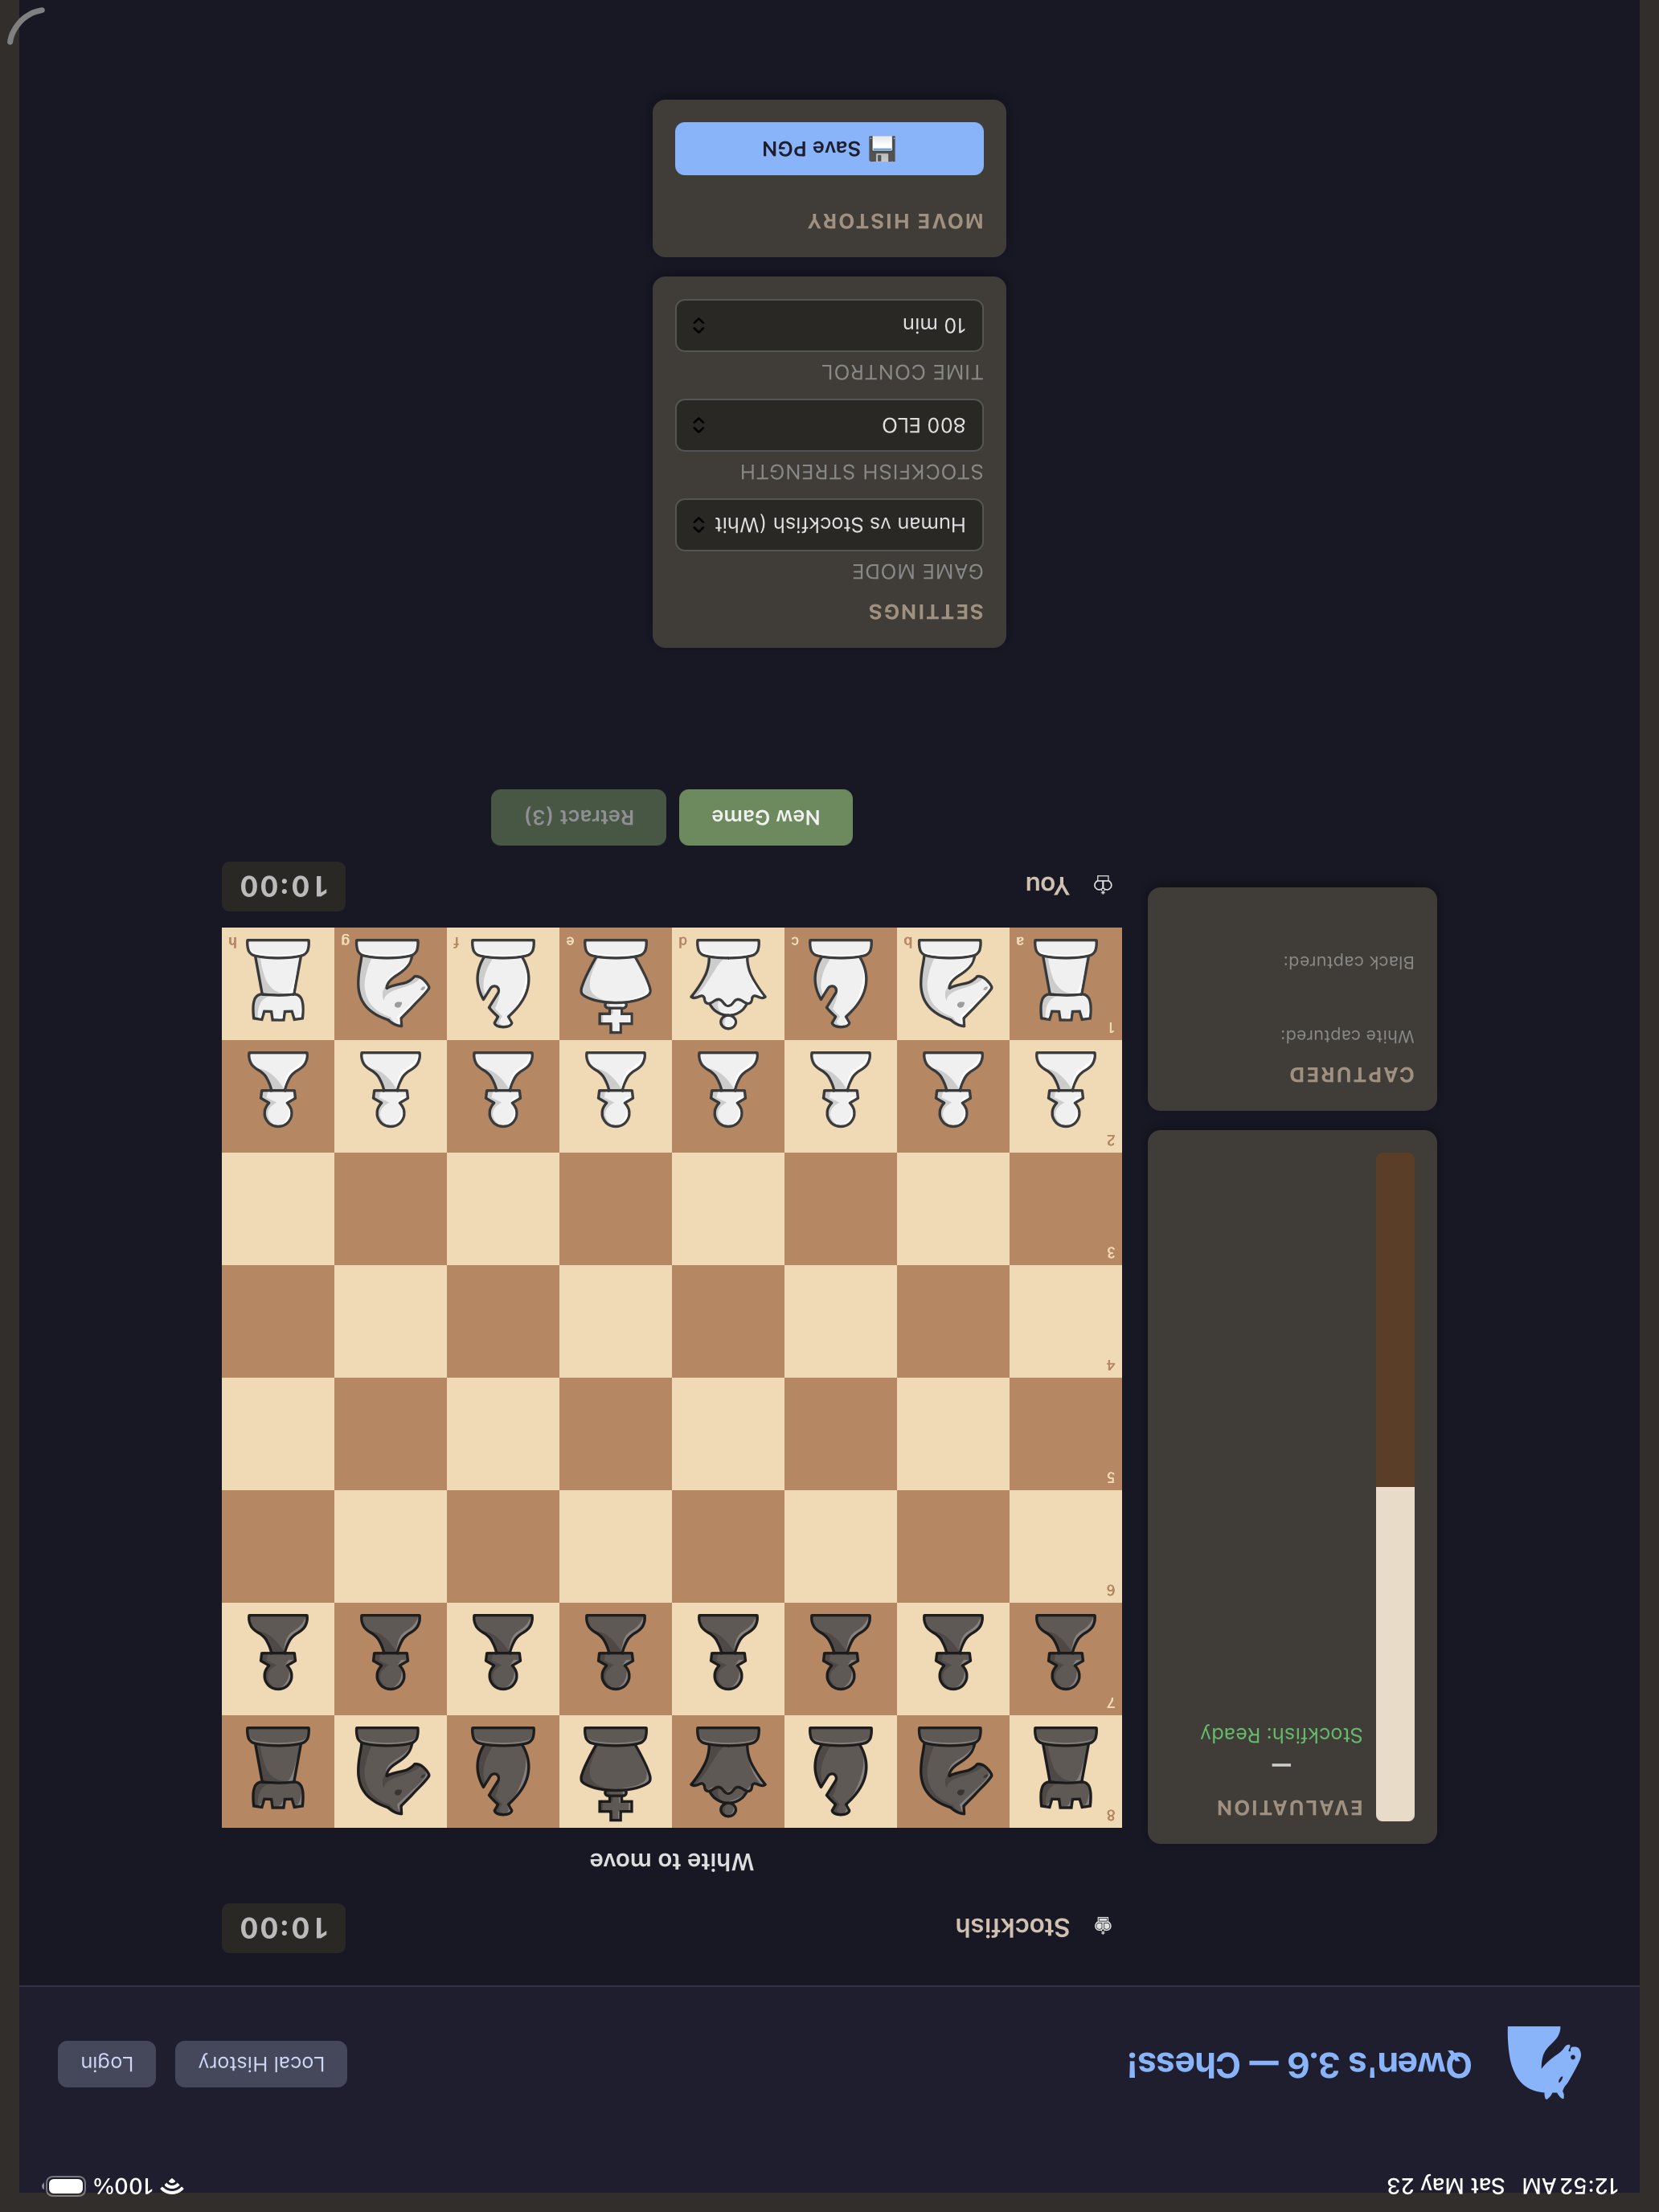
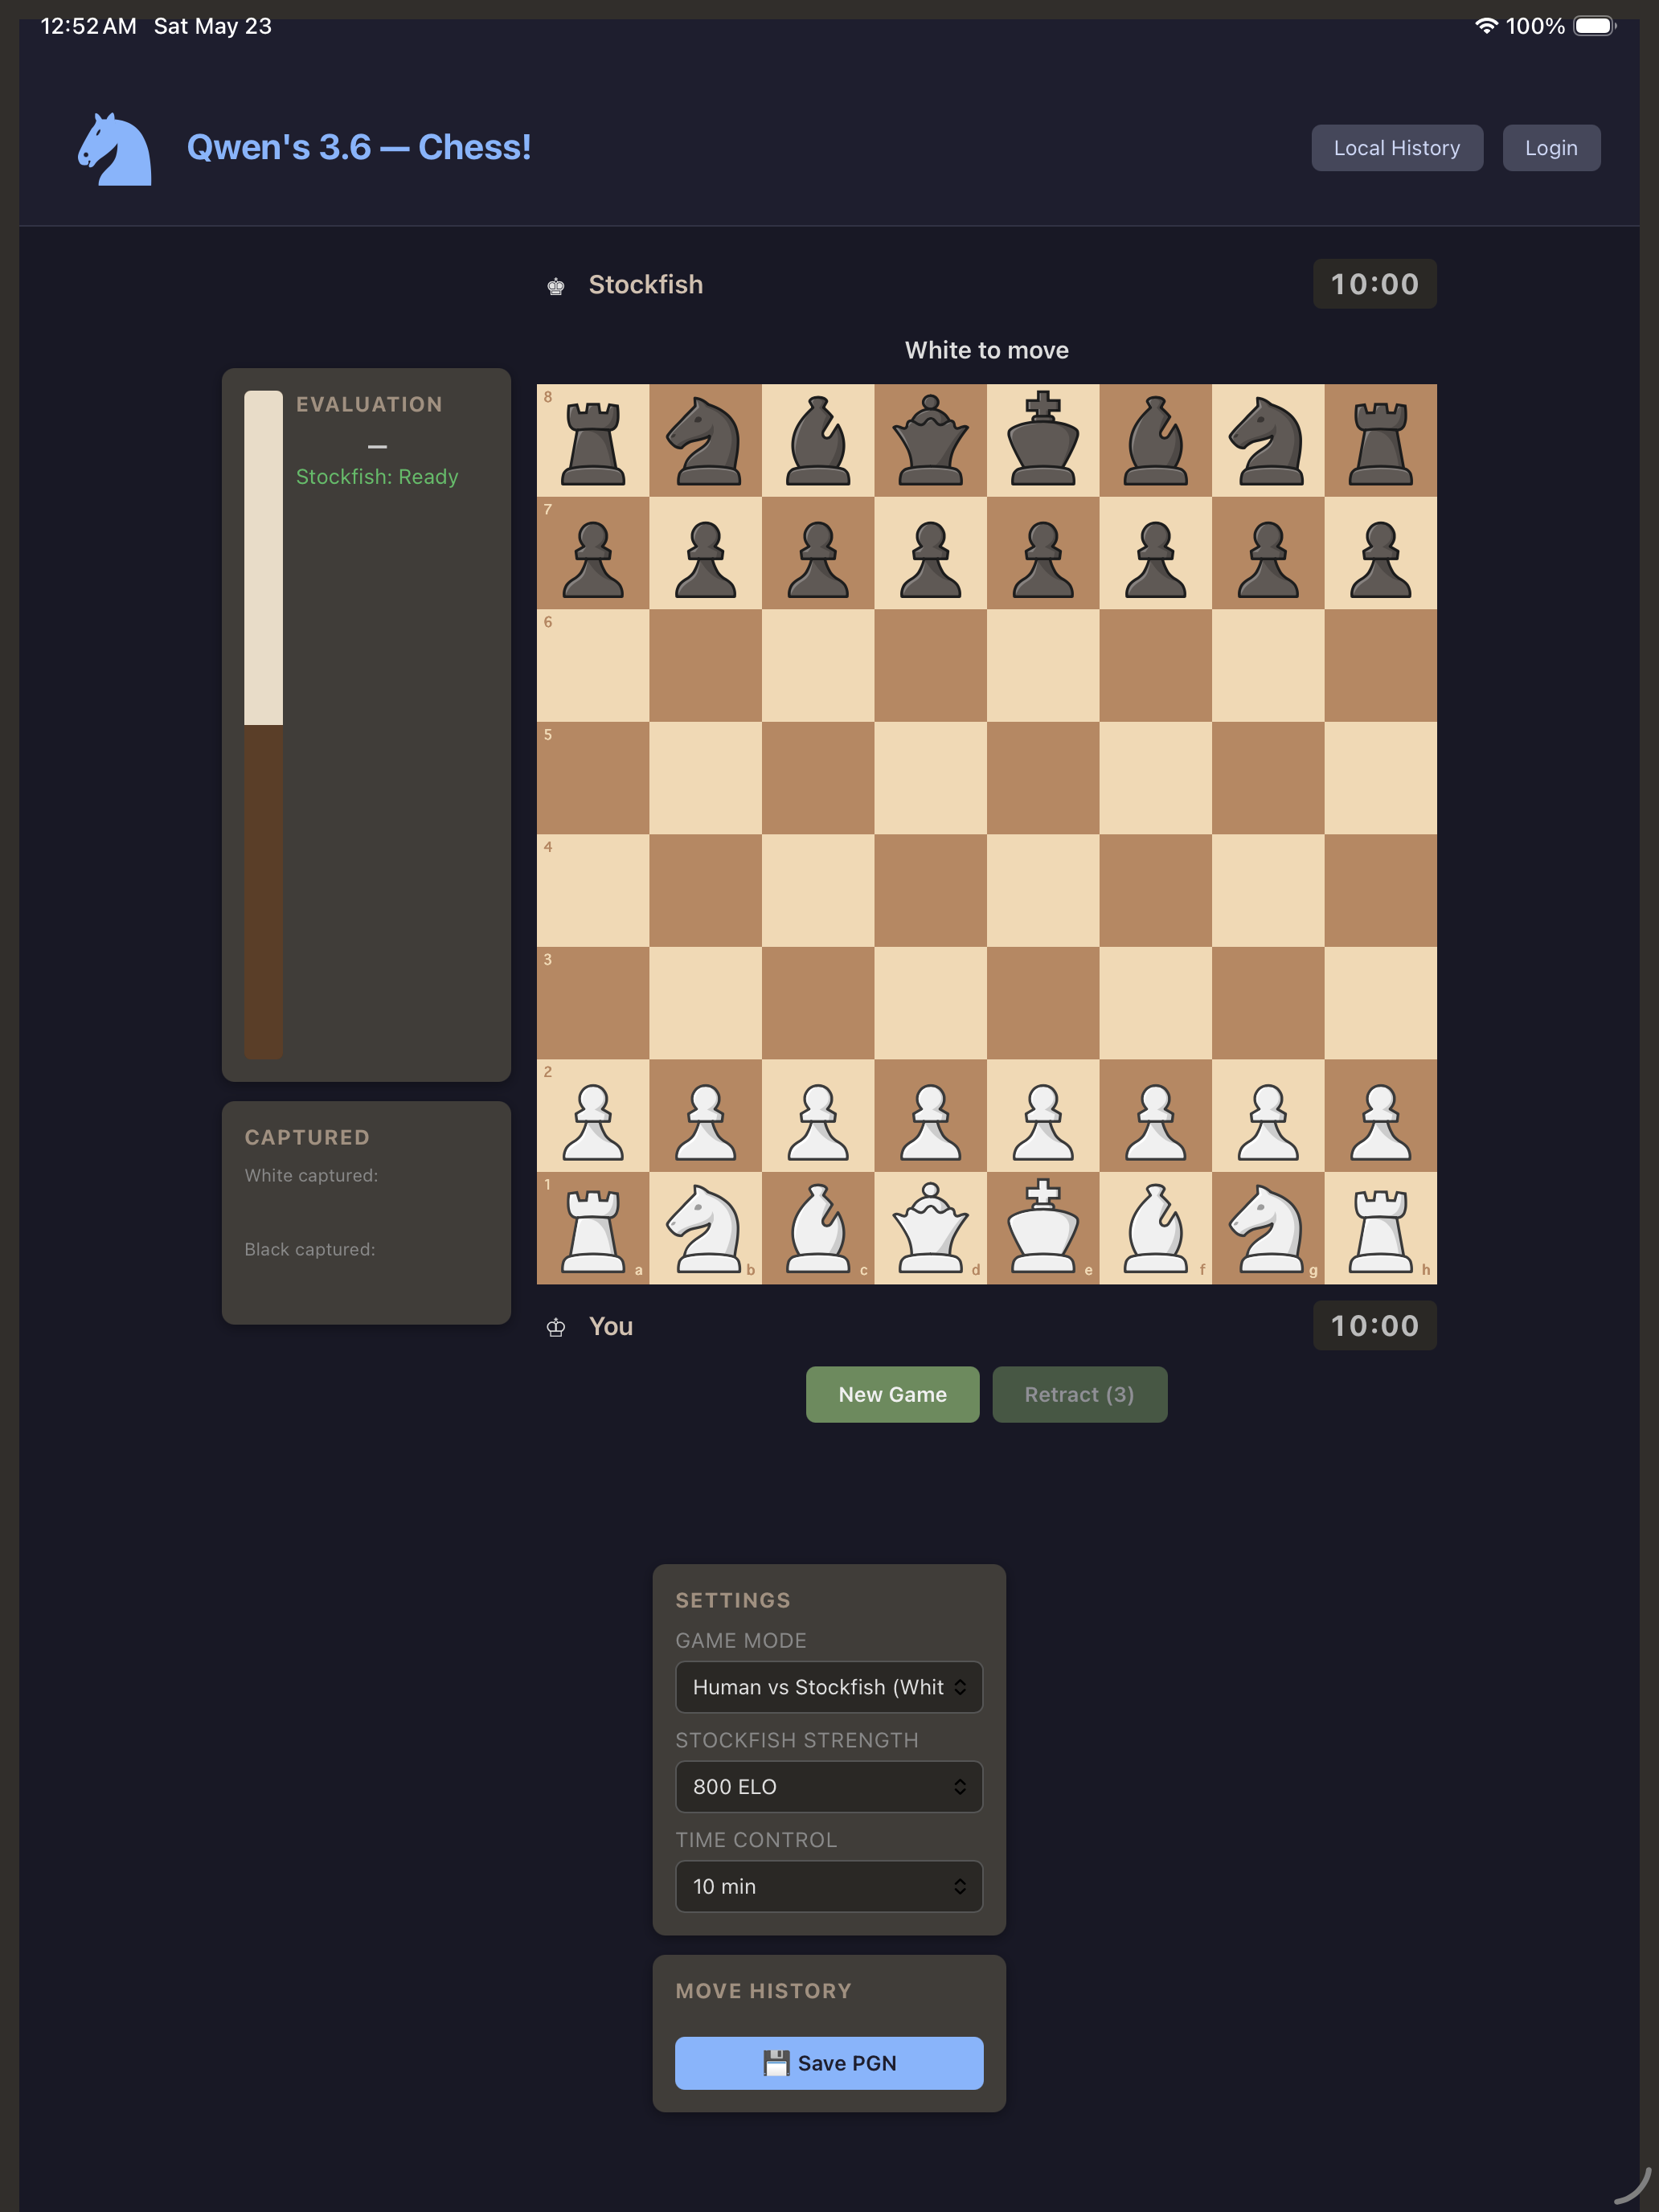
Fix production lobby route coverage

diff --git a/chess-app/src/App.tsx b/chess-app/src/App.tsx
@@ -1,5 +1,5 @@
 import { BrowserRouter, HashRouter, Routes, Route, Navigate, useNavigate } from 'react-router-dom';
-import { useCallback } from 'react';
+import { ReactNode, useCallback } from 'react';
 import { AuthProvider, useAuth } from './context/AuthContext';
 import { GameWebSocketProvider } from './context/GameWebSocketContext';
 import Login from './components/Login';
@@ -43,12 +43,25 @@ function AppRoutes() {
           )
         }
       />
-      <Route path="*" element={<MainApp />} />
+      <Route path="/" element={<MainApp><Home /></MainApp>} />
+      <Route
+        path="/lobby"
+        element={<MainApp><ProtectedRoute><Lobby onJoinGame={() => navigate('/online')} /></ProtectedRoute></MainApp>}
+      />
+      <Route path="/local" element={<MainApp><LocalGame /></MainApp>} />
+      <Route
+        path="/online"
+        element={<MainApp><ProtectedRoute><OnlineGame onBackToLobby={() => navigate('/lobby')} /></ProtectedRoute></MainApp>}
+      />
+      <Route path="/pgn" element={<MainApp><PGNLoader /></MainApp>} />
+      <Route path="/profile" element={<MainApp><ProtectedRoute><Profile /></ProtectedRoute></MainApp>} />
+      <Route path="/history" element={<MainApp><GameHistory /></MainApp>} />
+      <Route path="*" element={<Navigate to="/" replace />} />
     </Routes>
   );
 }
 
-function MainApp() {
+function MainApp({ children }: { children: ReactNode }) {
   const { user, accessToken, logout } = useAuth();
   const navigate = useNavigate();
   const nativeApp = isNativeApp();
@@ -167,21 +180,7 @@ function MainApp() {
 
         {/* Content */}
         <div className="app-content">
-          <Routes>
-            <Route path="/" element={<Home />} />
-            <Route
-              path="/lobby"
-              element={<ProtectedRoute><Lobby onJoinGame={() => navigate('/online')} /></ProtectedRoute>}
-            />
-            <Route path="/local" element={<LocalGame />} />
-            <Route
-              path="/online"
-              element={<ProtectedRoute><OnlineGame onBackToLobby={() => navigate('/lobby')} /></ProtectedRoute>}
-            />
-            <Route path="/pgn" element={<PGNLoader />} />
-            <Route path="/profile" element={<ProtectedRoute><Profile /></ProtectedRoute>} />
-            <Route path="/history" element={<GameHistory />} />
-          </Routes>
+          {children}
         </div>
       </div>
     </GameWebSocketProvider>

diff --git a/chess-app/tests/offline-routes.spec.ts b/chess-app/tests/offline-routes.spec.ts
@@ -17,11 +17,33 @@ function storedUser(overrides: Partial<Record<string, unknown>> = {}) {
 }
 
 async function seedAuthenticatedUser(page: import('@playwright/test').Page, accessToken = 'test-token') {
-  await page.goto('/');
-  await page.evaluate(({ user, token }) => {
+  if (process.env.PLAYWRIGHT_BASE_URL) {
+    const randomSuffix = `${Date.now().toString(36)}_${Math.floor(Math.random() * 46656).toString(36)}`;
+    const username = `rt_${randomSuffix}`.slice(0, 20);
+    await page.goto('/register');
+    await page.locator('#reg-username').fill(username);
+    await page.locator('#reg-email').fill(`${username}@example.com`);
+    await page.locator('#reg-password').fill('CodexTest123!');
+    await page.getByRole('button', { name: /Create Account/i }).click();
+    await expect(page).toHaveURL(/\/$/);
+    return;
+  }
+
+  const user = storedUser();
+
+  await page.route('**/api/users/me', async (route) => {
+    await route.fulfill({
+      status: 200,
+      contentType: 'application/json',
+      body: JSON.stringify(user),
+    });
+  });
+
+  await page.addInitScript(({ user, token }) => {
     localStorage.setItem('chess_access_token', token);
+    sessionStorage.setItem('chess_refresh_token', 'test-refresh-token');
     localStorage.setItem('chess_user', JSON.stringify(user));
-  }, { user: storedUser(), token: accessToken });
+  }, { user, token: accessToken });
 }
 
 test('offline-capable routes render without login', async ({ page }) => {

diff --git a/chess-app/playwright.config.ts b/chess-app/playwright.config.ts
@@ -1,16 +1,21 @@
 import { defineConfig, devices } from '@playwright/test';
 
+const externalBaseURL = process.env.PLAYWRIGHT_BASE_URL;
+const baseURL = externalBaseURL || 'http://127.0.0.1:5173/';
+
 export default defineConfig({
   testDir: './tests',
   timeout: 15_000,
-  webServer: {
-    command: 'npm run dev -- --host 127.0.0.1 --port 5173',
-    url: 'http://127.0.0.1:5173/',
-    reuseExistingServer: !process.env.CI,
-    timeout: 10_000,
-  },
+  webServer: externalBaseURL
+    ? undefined
+    : {
+        command: 'npm run dev -- --host 127.0.0.1 --port 5173',
+        url: baseURL,
+        reuseExistingServer: !process.env.CI,
+        timeout: 10_000,
+      },
   use: {
-    baseURL: 'http://127.0.0.1:5173/',
+    baseURL,
     ...devices['Desktop Chrome'],
     channel: 'chrome',
   },

diff --git a/README.md b/README.md
@@ -148,7 +148,7 @@ Mobile screenshots:
 <p>
   <img src="docs/screenshots/android-local-settings.png" alt="Android local game settings" width="260">
   <img src="docs/screenshots/ios-iphone-local-settings.png" alt="iPhone local game settings" width="260">
-  <img src="docs/screenshots/ios-ipad-home.png" alt="iPad home screen" width="360">
+  <img src="docs/screenshots/ios-ipad-home.png" alt="iPad local game settings" width="360">
 </p>
 
 Mobile workflow:
@@ -362,6 +362,25 @@ By default the test connects both clients through the frontend proxy at `ws://lo
 ```bash
 WS_URL_A=ws://localhost:3001/ws WS_URL_B=ws://localhost:3001/ws npm run test:integration
 ```
+
+## Frontend Route Tests
+
+Browser tests cover offline route access, protected online route redirects, authenticated lobby rendering, the Online Multiplayer home card, deep-link/refresh behavior, chess rules, en passant, castling guards, and the Stockfish 18 worker flow.
+
+```bash
+cd chess-app
+npm run test:browser
+```
+
+To run the same route coverage against a built frontend, start Docker Compose and set `PLAYWRIGHT_BASE_URL`:
+
+```bash
+docker compose up -d --build
+cd chess-app
+PLAYWRIGHT_BASE_URL=http://localhost:3001 npm run test:browser -- tests/offline-routes.spec.ts
+```
+
+This production-route check catches regressions where the browser URL changes to `/lobby` but the SPA shell renders the Home page instead of the Lobby.
 
 ## Development
 

diff --git a/chess-app/README.md b/chess-app/README.md
@@ -104,7 +104,7 @@ Screenshots:
 <p>
   <img src="../docs/screenshots/android-local-settings.png" alt="Android local game settings" width="260">
   <img src="../docs/screenshots/ios-iphone-local-settings.png" alt="iPhone local game settings" width="260">
-  <img src="../docs/screenshots/ios-ipad-home.png" alt="iPad home screen" width="360">
+  <img src="../docs/screenshots/ios-ipad-home.png" alt="iPad local game settings" width="360">
 </p>
 
 ```bash
@@ -114,6 +114,20 @@ npm run cap:open:ios
 ```
 
 Run `cap:sync` after frontend or Capacitor config changes before opening Android Studio or Xcode.
+
+Route and browser regression tests:
+
+```bash
+npm run test:browser
+```
+
+Run the route suite against the production frontend served by Docker Compose:
+
+```bash
+PLAYWRIGHT_BASE_URL=http://localhost:3001 npm run test:browser -- tests/offline-routes.spec.ts
+```
+
+The external route mode uses the live Compose backend for auth and catches production-only routing failures, including `/lobby` rendering the Home page after clicking Online Multiplayer.
 
 Android debug build:
 